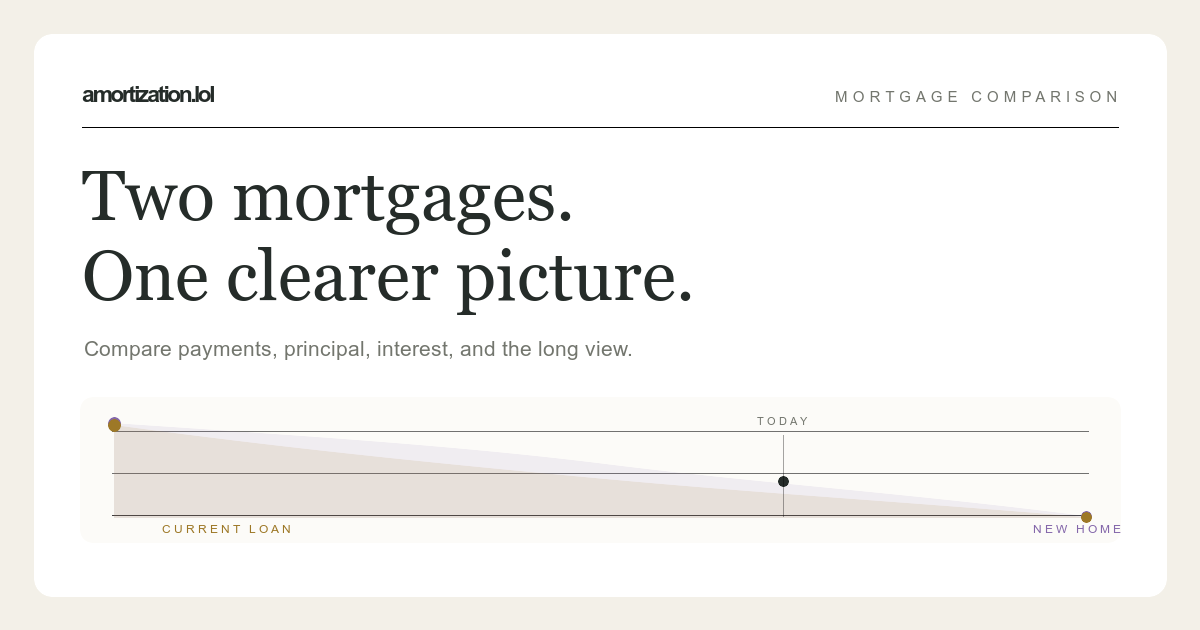
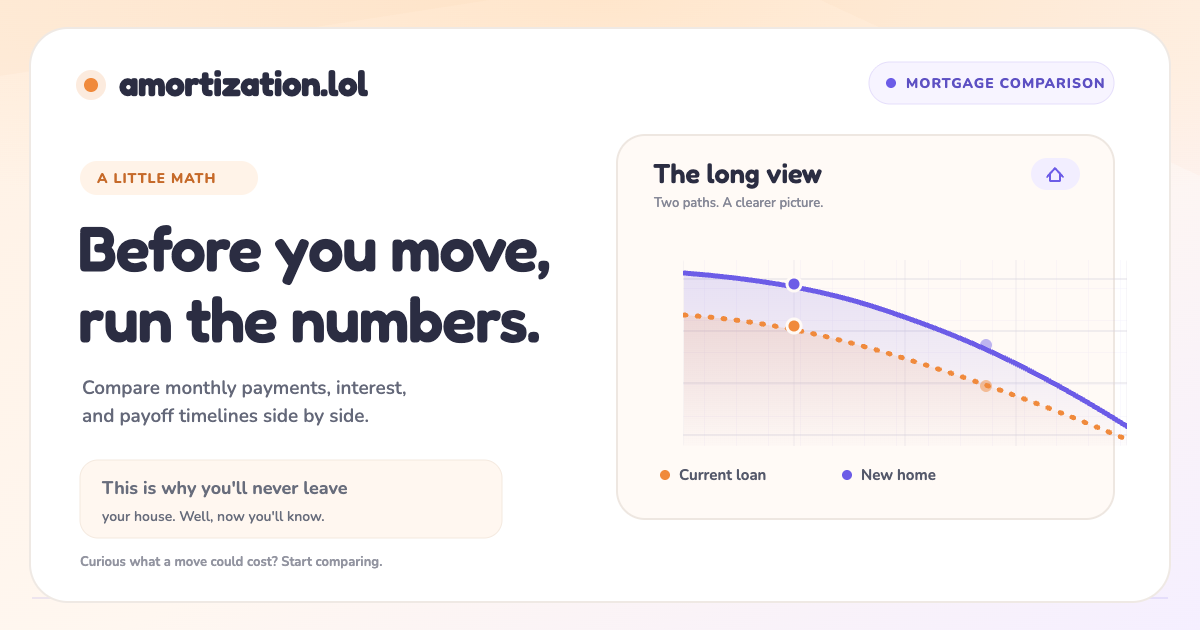
Refresh social share card

diff --git a/index.html b/index.html
@@ -36,17 +36,17 @@
     <meta property="og:title" content="amortization.lol — Mortgage comparison" />
     <meta property="og:description" content="Compare your current mortgage with a new home. See monthly payments, principal, interest, and total interest side by side." />
     <meta property="og:url" content="https://amortization.lol/" />
-    <meta property="og:image" content="https://amortization.lol/og-image.png" />
-    <meta property="og:image:secure_url" content="https://amortization.lol/og-image.png" />
+    <meta property="og:image" content="https://amortization.lol/og-image.png?v=2" />
+    <meta property="og:image:secure_url" content="https://amortization.lol/og-image.png?v=2" />
     <meta property="og:image:type" content="image/png" />
     <meta property="og:image:width" content="1200" />
     <meta property="og:image:height" content="630" />
-    <meta property="og:image:alt" content="An editorial mortgage comparison with two colored loan balance curves." />
+    <meta property="og:image:alt" content="A playful peach and lavender mortgage comparison card with an orange current-loan curve and a violet new-home curve." />
     <meta name="twitter:card" content="summary_large_image" />
     <meta name="twitter:title" content="amortization.lol — Mortgage comparison" />
     <meta name="twitter:description" content="Compare your current mortgage with a new home. See monthly payments, principal, interest, and total interest side by side." />
-    <meta name="twitter:image" content="https://amortization.lol/og-image.png" />
-    <meta name="twitter:image:alt" content="An editorial mortgage comparison with two colored loan balance curves." />
+    <meta name="twitter:image" content="https://amortization.lol/og-image.png?v=2" />
+    <meta name="twitter:image:alt" content="A playful peach and lavender mortgage comparison card with an orange current-loan curve and a violet new-home curve." />
   </head>
   <body>
     <div id="root"></div>
